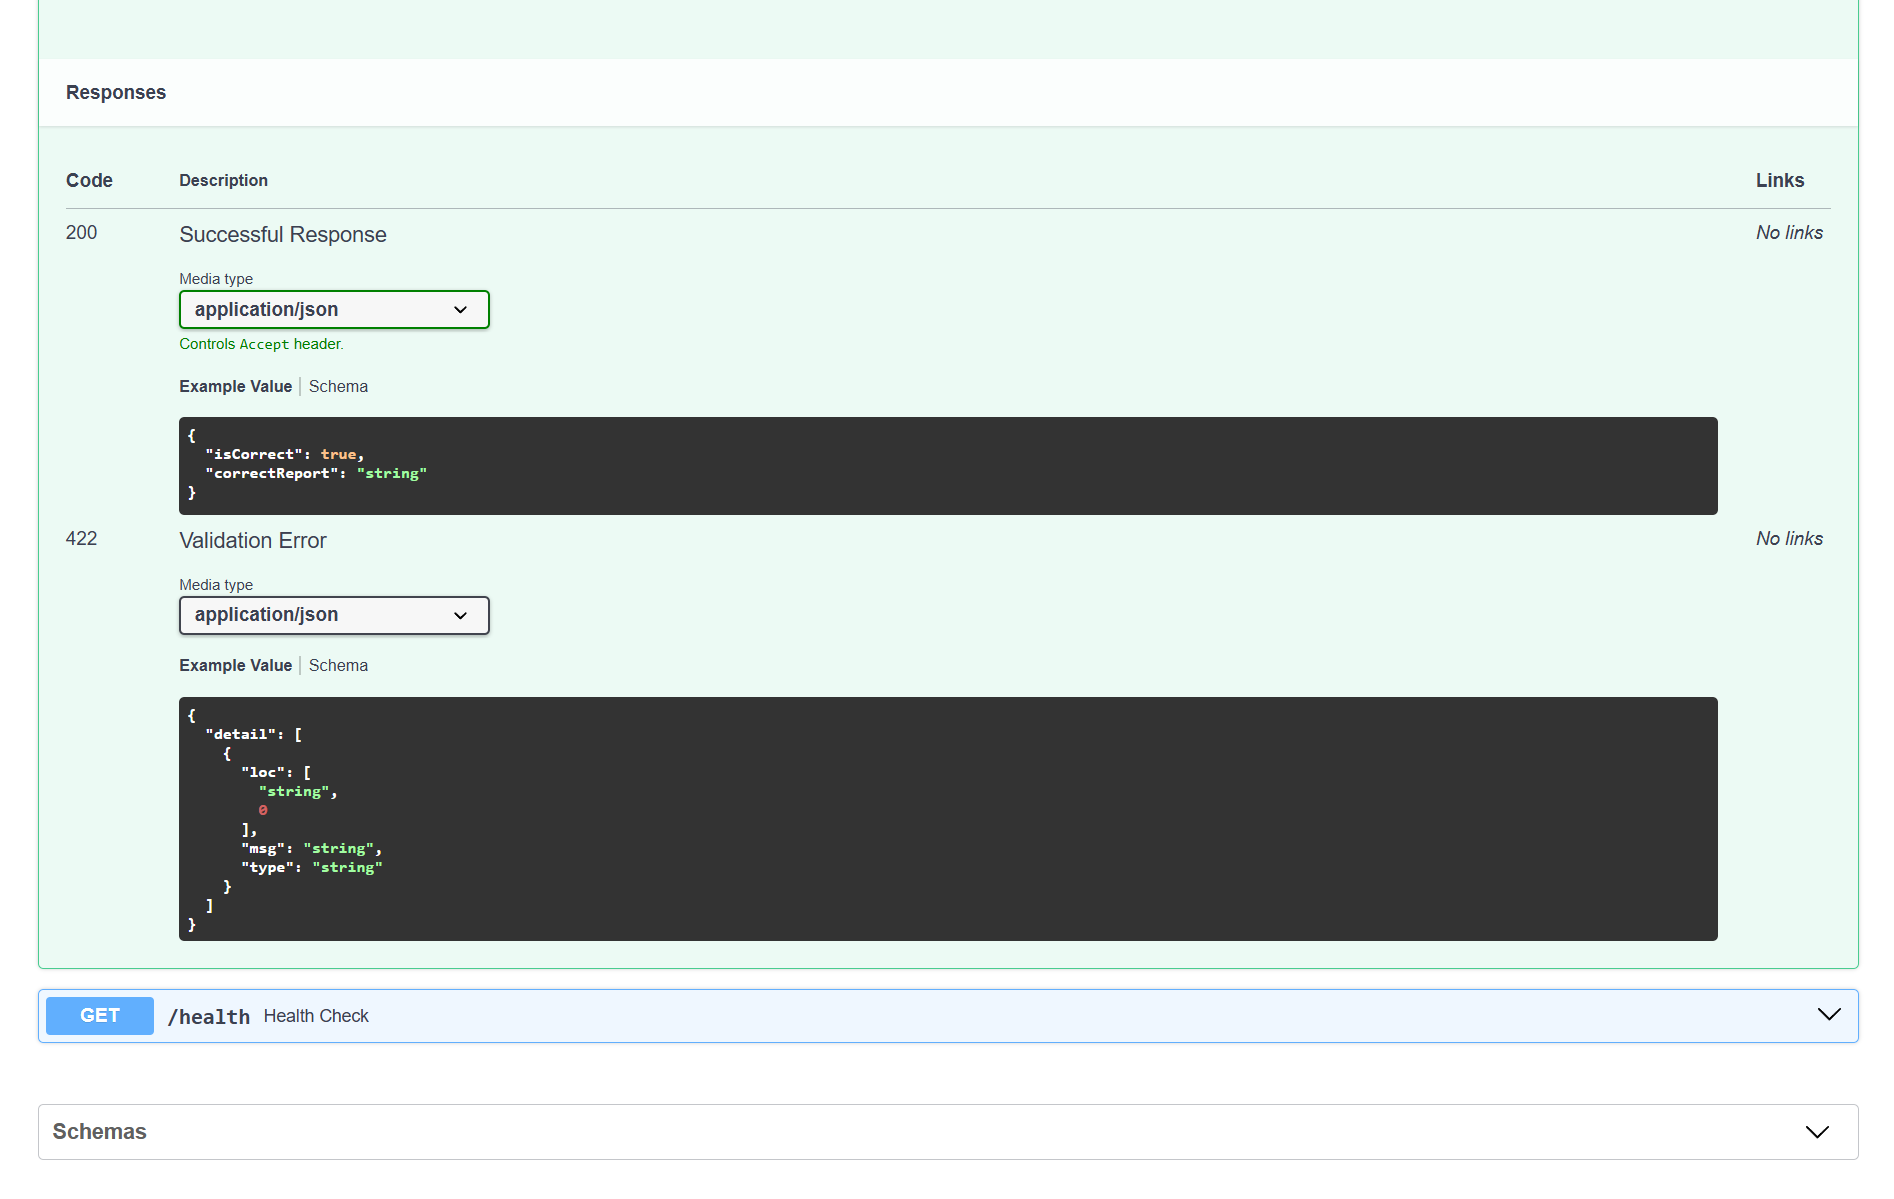
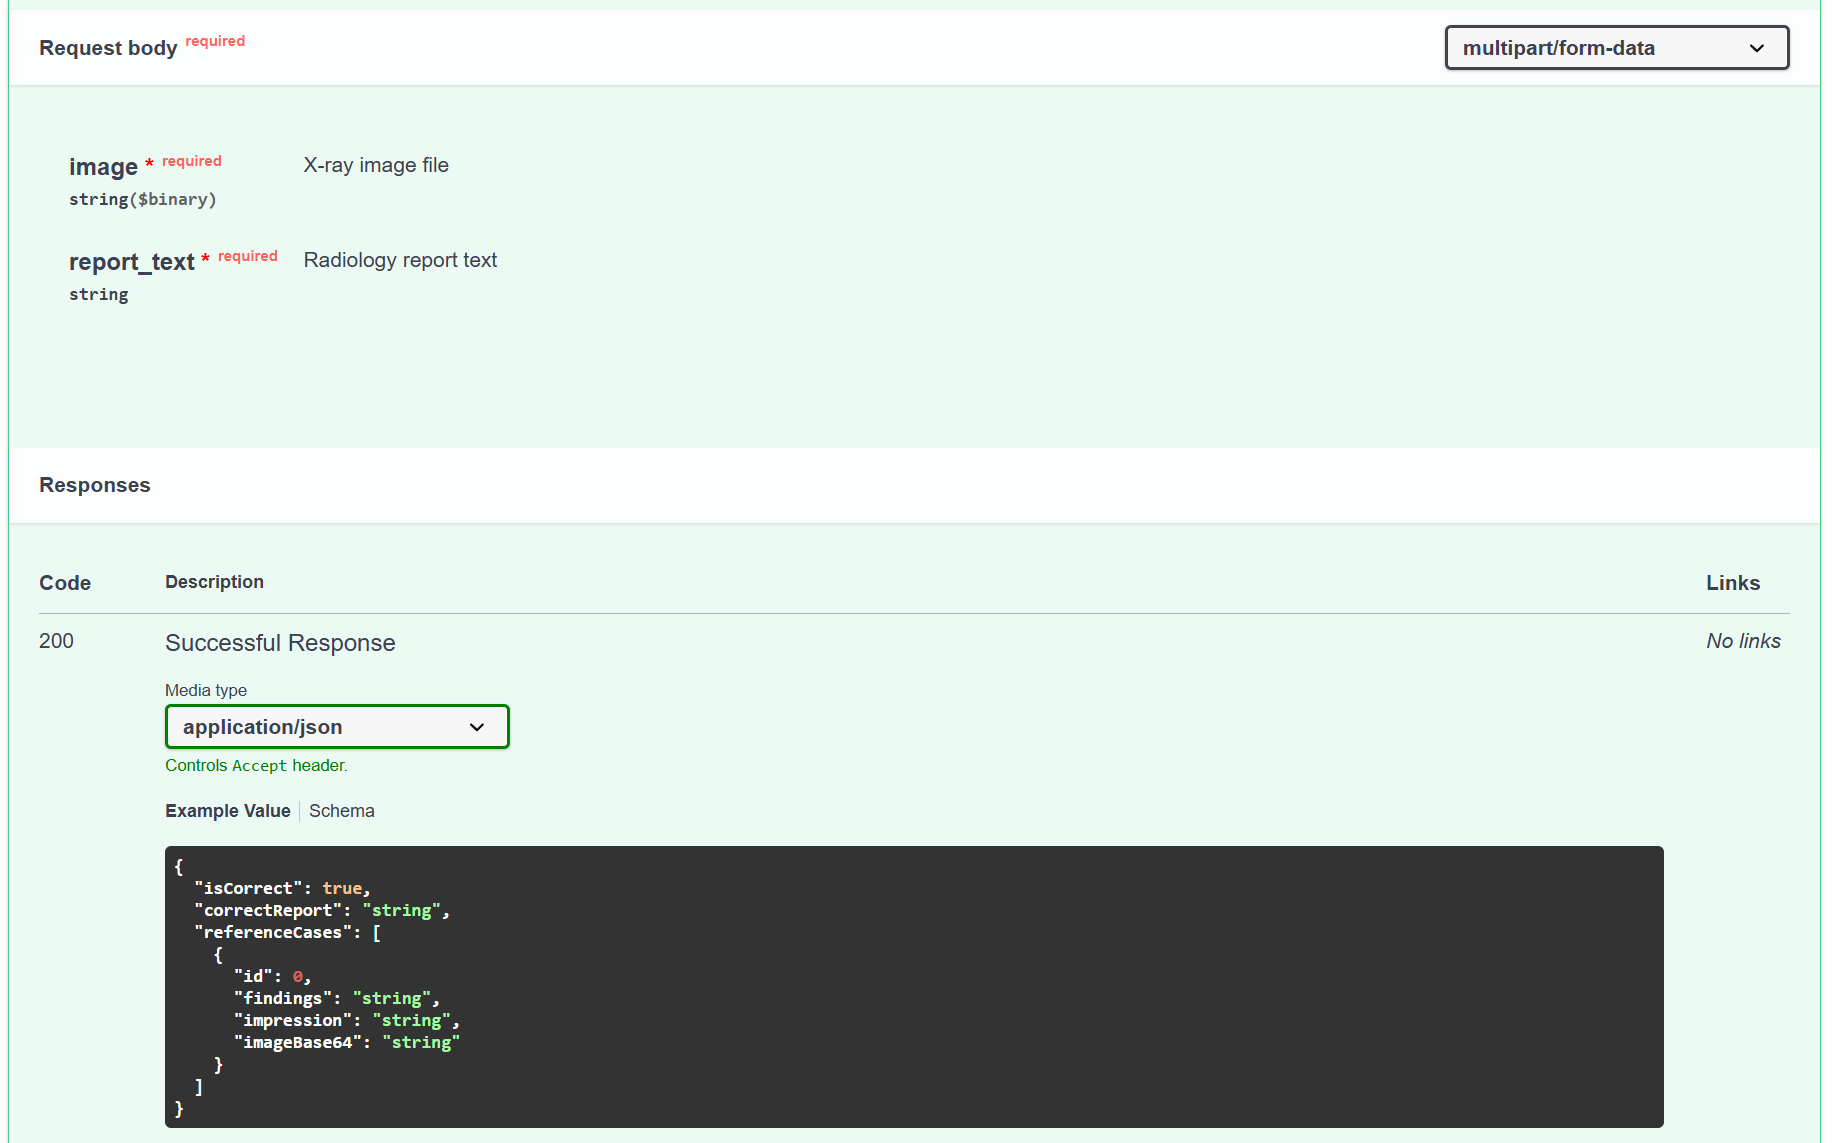
Improved tests and updated documentation

diff --git a/src/app.py b/src/app.py
@@ -43,10 +43,6 @@ app.add_middleware(
     allow_headers=["*"],
 )
 
-# --- MONITORING METRICS DEFINITIONS ---
-# We define Histograms to track the duration of specific pipeline stages.
-# Buckets are tuned for expected latencies (e.g., embeddings are fast, LLMs are slow).
-
 METRIC_EMBEDDING_LATENCY = Histogram(
     "medrag_embedding_generation_seconds",
     "Time spent generating MedSigLIP embeddings for image and text",

diff --git a/tests/test.py b/tests/test.py
@@ -96,4 +96,5 @@ def test_verification_workflow():
 if __name__ == "__main__":
     server_up = test_health()
     if server_up:
-        test_verification_workflow()
+        for i in range(3):
+            test_verification_workflow()

diff --git a/README.md b/README.md
@@ -20,7 +20,7 @@ An AI-assisted tool for radiology report validation : MedGemma & MedSigLIP
 ### What this solution does
 - Accepts an X-ray image and its radiology report, then returns:
 	- AI-powered verification of report completeness and quality assurance.
-	- Similar-case references with their associated reports.
+	- Top 3 similar-case references with their associated reports for comparison.
 
 	How it works : workflow
 	- Upload: A radiologist uploads an X-ray image and the written radiology report.
@@ -30,13 +30,14 @@ An AI-assisted tool for radiology report validation : MedGemma & MedSigLIP
 
 ### User flow
 - Upload your X-ray image and the report text, then click verify.
-- The app finds similar examples from a large medical dataset and checks whether your report is complete and consistent with those examples.
-- It returns an easy-to-read summary and example reports you can review.
+- The app finds the top 3 most similar examples from a large medical dataset and checks whether your report is complete and consistent with those examples.
+- It returns an easy-to-read summary, verification details, and the top 3 similar case reports you can review and compare against.
 
 ### Live app
 
 
-![Frontend screenshot](assets/frontend.png)
+![Frontend screenshot](assets/frontend1.png)
+![Frontend screenshot](assets/frontend2.png)
 
 
 - Deployed frontend URL: https://akhilvaidya91.github.io/MedRAG/
@@ -168,10 +169,36 @@ docker run -e HF_TOKEN="$HF_TOKEN" -e SUPABASE_URL="$SUPABASE_URL" -e SUPABASE_K
 
 - Hugging Face Spaces: You can deploy the backend to Hugging Face Spaces if the service fits their allowed patterns; serving static frontend on GitHub Pages is simpler. Docker makes either approach straightforward.
 
+### Monitoring setup (local)
+- The repository includes a monitoring stack using Prometheus and Grafana located in the `monitering/` folder.
+
+![Frontend screenshot](assets/monitoring.png)
+
+- **How it works:**
+	- Prometheus scrapes metrics from the backend API (either local or deployed).
+	- Grafana provides visualization dashboards for monitoring API performance, request rates, and health metrics.
+- **Setup steps:**
+	1. Navigate to the `monitering/` folder:
+	```bash
+	cd monitering
+	```
+	2. Start the monitoring stack:
+	```bash
+	docker-compose up -d
+	```
+	3. Access the monitoring tools:
+		- **Prometheus**: http://localhost:9090
+		- **Grafana**: http://localhost:3000 (default login: `admin`/`admin`)
+- **Configuration:**
+	- `prometheus.yml`: Controls scrape targets and intervals. By default configured for the deployed backend, but includes commented configuration for local development.
+	- For **local monitoring**: Uncomment the local configuration section in `prometheus.yml` which uses `host.docker.internal:8000` to monitor your local backend.
+	- For **deployed backend monitoring**: Use the default HTTPS configuration targeting the Hugging Face Space URL.
+- **Note:** The monitoring stack currently works locally and requires the backend to expose Prometheus-compatible metrics endpoints.
+
 ### API endpoints (summary)
 | Endpoint | Method | Purpose |
 |---|---:|---|
-| `/api/verify-report` | POST | Primary endpoint: accepts X-ray image + text report, returns verification summary, similar-case references, and visual artifacts. |
+| `/api/verify-report` | POST | Primary endpoint: accepts X-ray image + text report, returns verification summary, top 3 similar-case references, and visual artifacts. |
 | `/docs` | GET | FastAPI OpenAPI UI for interactive API exploration and testing. |
 | `/health` | GET | Lightweight healthcheck endpoint for monitoring and readiness checks. |
 
